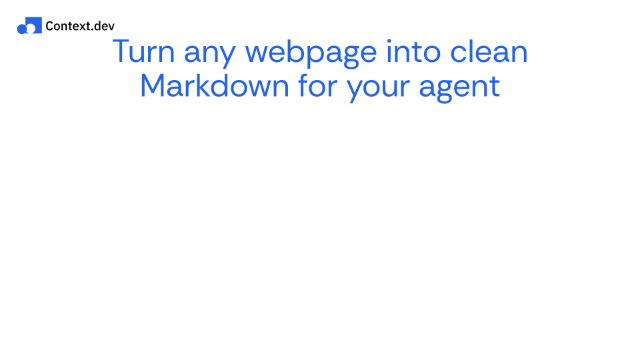
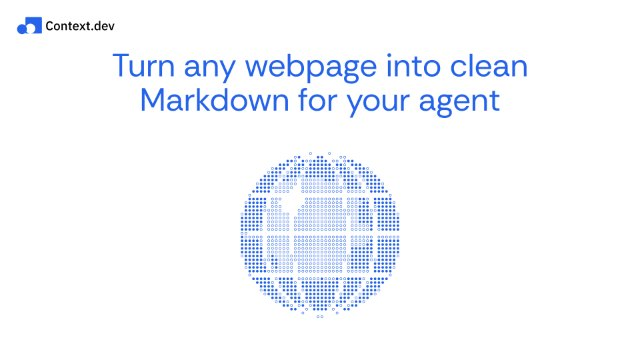
The image slide falls back to its opening picture; docs examples regenerated

Changed region(s): [[0.1562, 0.0917, 0.8438, 0.3361], [0.375, 0.4278, 0.625, 0.8861]]

diff --git a/src/commands/deck.ts b/src/commands/deck.ts
@@ -1,7 +1,7 @@
 import { readFileSync } from 'node:fs';
 import { dirname, isAbsolute, join, resolve } from 'node:path';
 import type { Command } from 'commander';
-import { deckCatalog, renderSlide, slideTypes, type Slide } from '../assets/deck.js';
+import { deckCatalog, deckDoc, renderSlide, slideTypes, type Slide } from '../assets/deck.js';
 import { display, pick, write, type OutFile } from '../assets/io.js';
 import { imagesToPdf } from '../assets/pdf.js';
 import { readPicture } from '../assets/picture.js';
@@ -95,7 +95,8 @@ async function runDeck(positional: string | undefined, o: Opts) {
 	for (const [i, s] of slides.entries()) {
 		if (!s || typeof s.type !== 'string') throw new Error(`Slide ${i + 1} needs a "type" (${slideTypes().join(', ')}).`);
 		const id = pick('slide type', s.type, slideTypes());
-		const pic = await picture(base, s.image);
+		// A slide's own picture, else its type's opening one (the image slide's sample).
+		const pic = await picture(base, s.image ?? deckDoc().slides[id].slots.image);
 		let r;
 		try {
 			r = renderSlide({ ...s, type: id, picture: pic }, { png: format !== 'svg', svg: format === 'svg' });

diff --git a/src/assets/deck.ts b/src/assets/deck.ts
@@ -145,7 +145,7 @@ export function drawSlide(ctx: Ctx, slide: Slide, fonts: Fonts = brandFonts()) {
 			const d = { ...designFor(template, 'custom', { w: W, h: H }), palette: p.name, headline: slots.title ?? '' };
 			if (type === 'stat') Object.assign(d, { stat: slots.stat ?? '', partnerName: '' });
 			// The announcement's 176 px headline at this size is for a word or two; a slide title is a sentence.
-			else Object.assign(d, { body: slots.body ?? '', image: pic ? 'picture' : 'none', textSize: 96, textY: 0.09, logo: true });
+			else Object.assign(d, { body: slots.body ?? '', image: pic ? 'picture' : 'none', textSize: 96, textY: 0.13, logo: true });
 			// drawDesign sets its own scale from the canvas width, so it is handed the surface's.
 			const k = ctx.getTransform().a;
 			const fake = { width: W * k, height: H * k, getContext: () => ctx };
